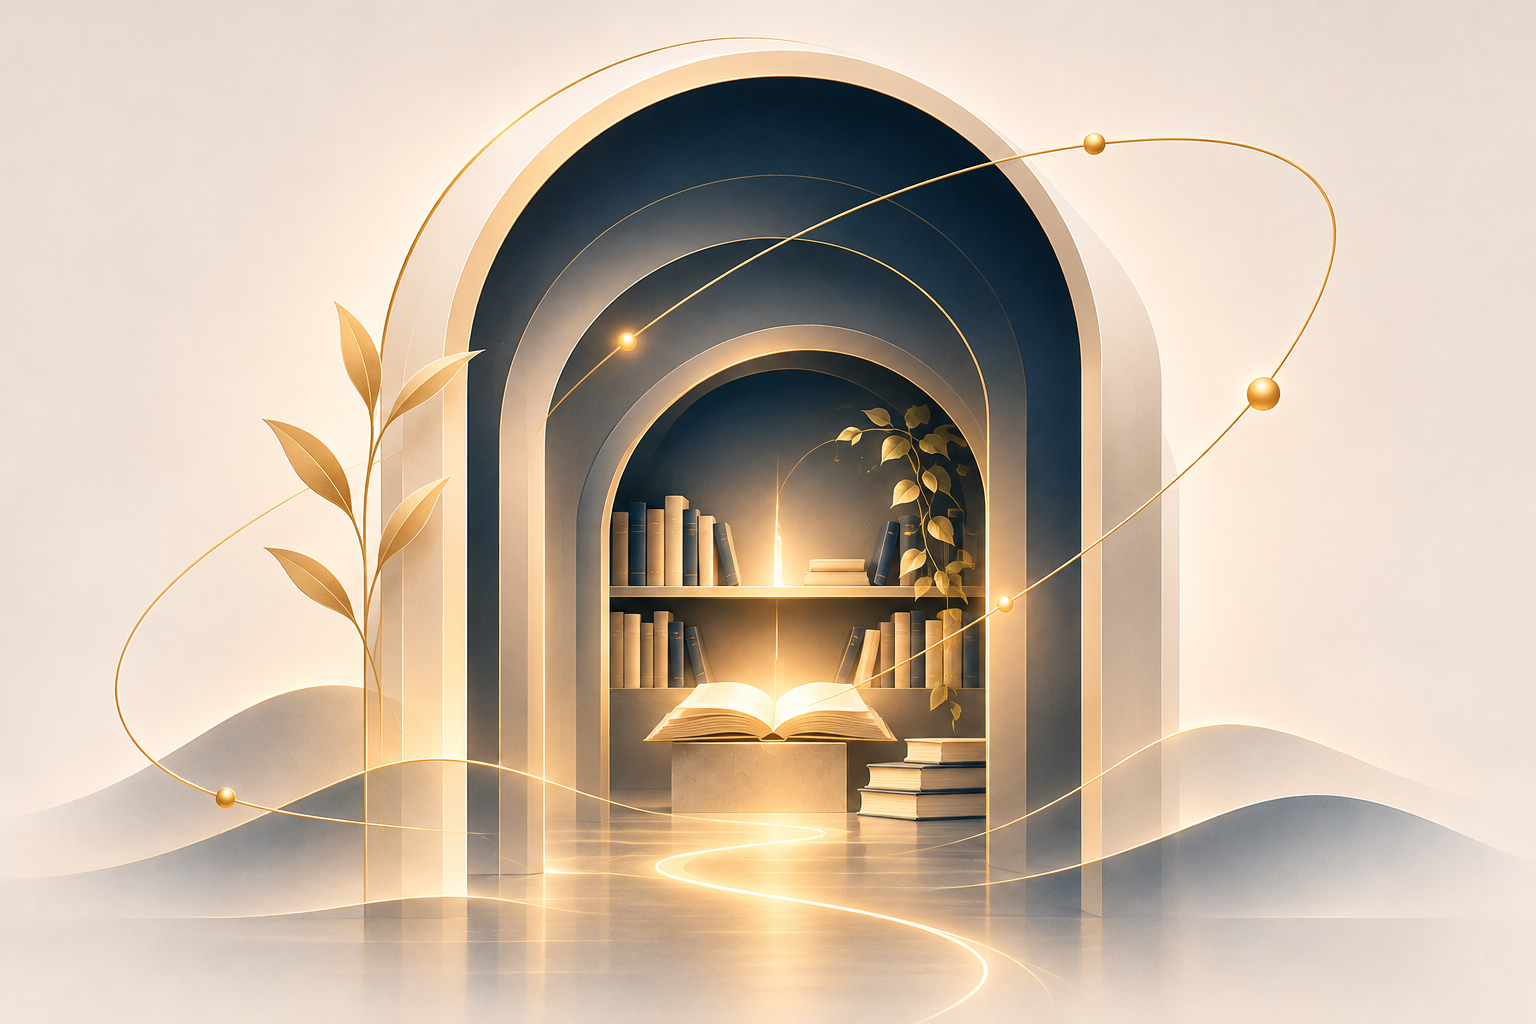
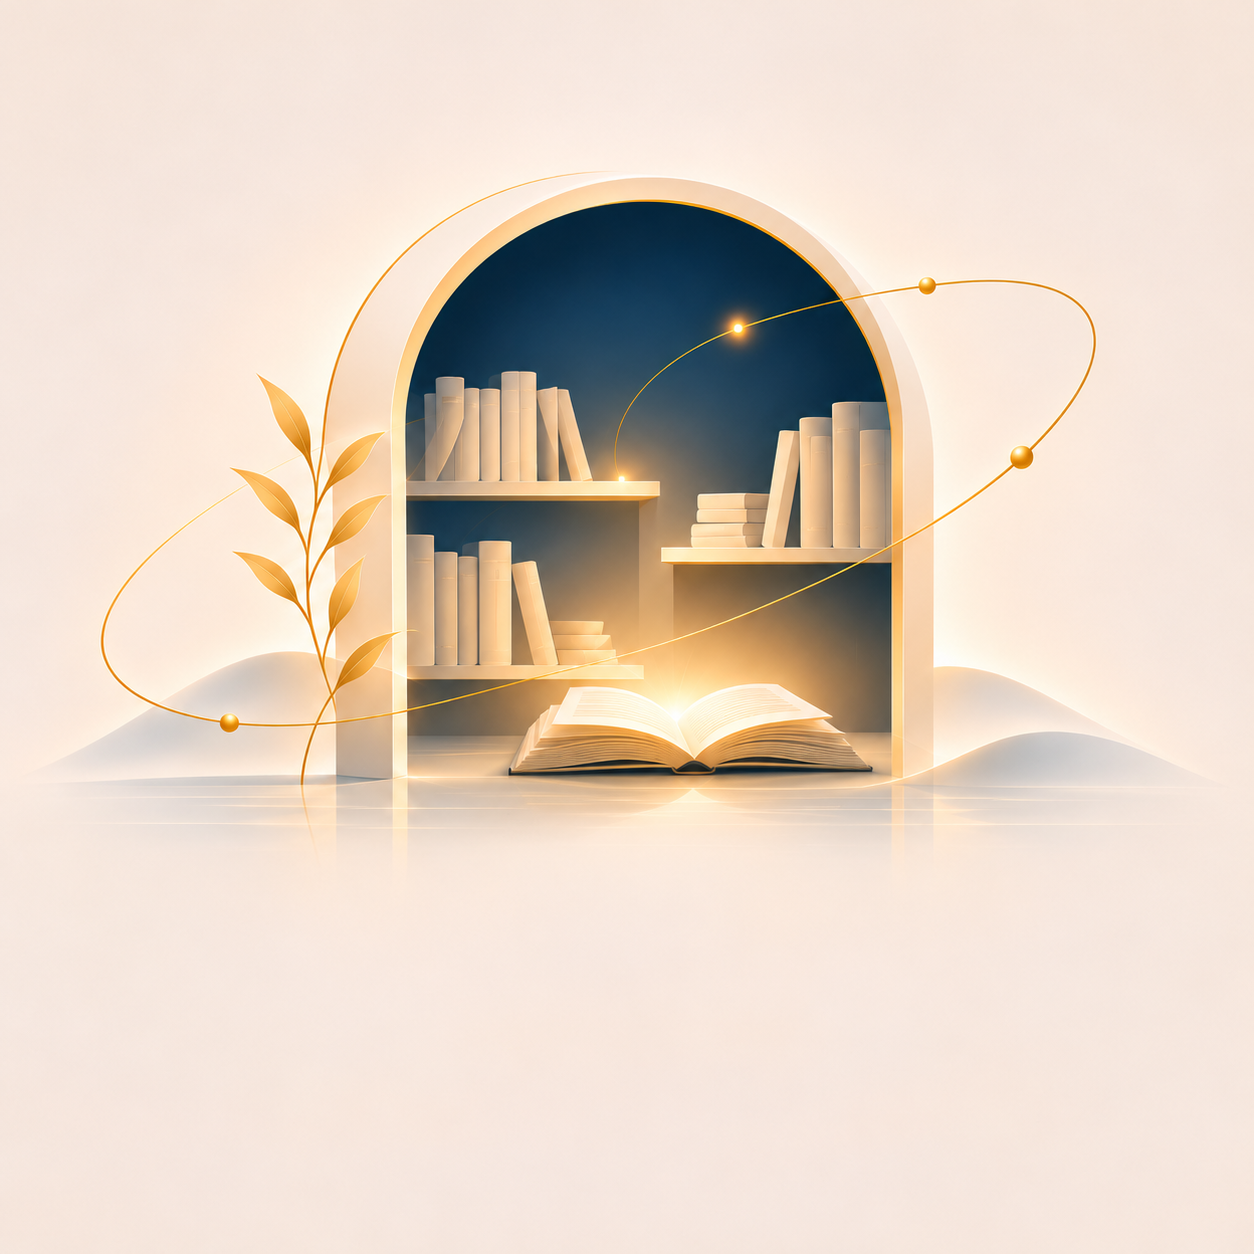
fix(library): квадратна ілюстрація замість альбомної
Юлія замінила файл на квадрат 1254×1254. Без правки шапка виростала
на двісті пікселів: нижня третина картинки — порожнє тло, і рядок
категорій їхав донизу.

Показуємо кадр у пропорції 3:2 з object-cover, як у макеті. Заразом
прибрано social-support.png — на нього більше ніхто не посилається.

diff --git a/app/(public)/library/library-client.tsx b/app/(public)/library/library-client.tsx
@@ -64,11 +64,11 @@ export function LibraryClient({ materials }: { materials: Material[] }) {
         <Image
           src="/brand/motifs/library-hero.png"
           alt="Світла арка з книжковими полицями й розгорнутою книгою, довкола — золоті орбіти та гілка"
-          width={1536}
-          height={1024}
+          width={1254}
+          height={1254}
           priority
           sizes="(min-width: 1024px) 620px, 90vw"
-          className="mx-auto h-auto w-full max-w-[520px] lg:max-w-none"
+          className="mx-auto aspect-[3/2] w-full max-w-[520px] object-cover object-[50%_28%] lg:max-w-none"
           style={featherEdges}
         />
       </section>
